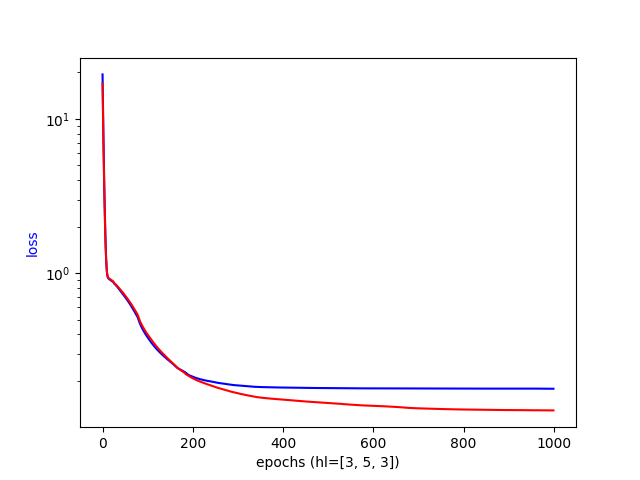
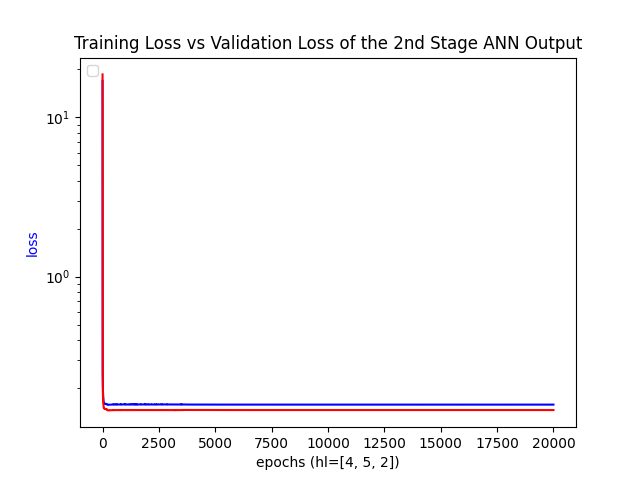
HW6: Further refinement
further work getting 100% output of work. Need to bin DT

diff --git a/hw/HW6-Taxi_ModelEnsemble/src/hw6_ModelEnsemble.py b/hw/HW6-Taxi_ModelEnsemble/src/hw6_ModelEnsemble.py
@@ -33,7 +33,7 @@ TEST_DATA = 0.2
 VALID_DATA_FROM_TRAIN = 0.25
 RANDOM_SEED = 5
 
-DEBUG = True
+DEBUG = False
 OUTPUT_FILES = True
 DATA_USE_RATIO = 1
 
@@ -134,6 +134,8 @@ def plotANNLearningCurve(hl, trainingLoss, validationLoss):
     ax.set_ylabel("loss", color="blue", fontsize=10)
     ax.plot(validationLoss, color="red")
     ax.set_yscale('log')
+    plt.legend(loc='upper left')
+    plt.title("Training Loss vs Validation Loss of the 2nd Stage ANN Output")
 
     plt.savefig(OUTPUT_LPLOT)
 
@@ -144,7 +146,15 @@ def plotModelOutput(actualY, modelY):
     scat.scatter(actualY.tolist(), modelY.tolist(), marker='o', c='blue')
     scat.set_xlabel("Actual Taxi Fares ($)")
     scat.set_ylabel("Model Predicted Taxi Fares ($)")
-    scat.legend(loc='upper left')
+    plt.title("Ensemble Model vs Actual Taxi Fare Prices")
+
+    # Keep axis ranges consistent to highlight amount of linear relationship.
+    if max(actualY) > max(modelY):
+        plt.xlim(0, max(actualY)*1.1)
+        plt.ylim(0, max(actualY)*1.1)
+    else:
+        plt.xlim(0, max(modelY)*1.1)
+        plt.ylim(0, max(modelY)*1.1)
 
     plt.savefig(OUTPUT_SPLOT)
 
@@ -184,7 +194,7 @@ def createANN(df: pd.DataFrame):
 
     ##################################################
     # Train the ANN model
-    hl = [5, 10, 2]
+    hl = [6, 8, 4]
     clf = ann.MLPRegressor(hidden_layer_sizes=hl,
                             activation='relu',
                             solver='adam',
@@ -257,7 +267,7 @@ def createMLR(df: pd.DataFrame):
     scalerX = preproc.MinMaxScaler(feature_range=[0, 1])
     X = scalerX.fit_transform(X)
 
-    scalerY = preproc.MinMaxScaler(feature_range=(0, 1))
+    scalerY = preproc.MinMaxScaler(feature_range=(-1, 1))
     Y = scalerY.fit_transform(df[[TARGET_FEATURE]])
 
     ##################################################
@@ -302,10 +312,10 @@ def secondStage(df: pd.DataFrame, annY, dtY, mlrY):
     ##################################################
     # Normalize inputs and outputs
     X = df.drop([TARGET_FEATURE], axis=1).to_numpy()
-    scalerX = preproc.MinMaxScaler(feature_range=[0, 1])
+    scalerX = preproc.MinMaxScaler(feature_range=(0, 1))
     X = scalerX.fit_transform(X)
 
-    scalerY = preproc.MinMaxScaler(feature_range=[0, 1])
+    scalerY = preproc.MinMaxScaler(feature_range=(-1, 1))
     Y = scalerY.fit_transform(df[[TARGET_FEATURE]])
 
     ##################################################
@@ -323,7 +333,7 @@ def secondStage(df: pd.DataFrame, annY, dtY, mlrY):
     # Train the Multivariate Linear Regression model
     #mlr = linmod.LinearRegression()
     # Train the ANN model
-    hl = [3, 5, 3]
+    hl = [4, 5, 2]
     clf = ann.MLPRegressor(hidden_layer_sizes=hl,
                            activation='relu',
                            solver='adam',
@@ -337,7 +347,7 @@ def secondStage(df: pd.DataFrame, annY, dtY, mlrY):
 
     trainingLoss = []
     validationLoss = []
-    numEpochs = 1000
+    numEpochs = 10000
     if DEBUG:
         numEpochs = 10
 
